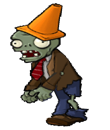
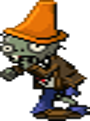
Modificaciones con los zombies, correccion con el tiempo de aparicion, nuevos frames para ataque de los cono y varios docstring

diff --git a/funciones.py b/funciones.py
@@ -315,7 +315,7 @@ def plantar(
     """
     La funcion encarnada de plantar las plantas sobre el pasto.
 
-    inputs:
+    Inputs:
     ------
     grilla_entidades: la grilla sobre la que están colocadas las plantas.
     seleccion_planta: el item de la planta seleccionada ("lanzaguisantes", "girasol", "nuez", "petacereza", "papapum" o "hielaguisantes")
@@ -324,7 +324,7 @@ def plantar(
     reproductor_de_sonido: variable de clase Administrador_de_sonido donde se reproducirán los sonidos de plantar.
     gruposemoillas: el grupo de pygame.Sprites destinado a esta clase.
 
-    returns:
+    Returns:
     ------
     seleccion_planta: devuelve un False en la planta seleccionada para deseleccionar la planta.
 
@@ -412,10 +412,20 @@ def perder(traslucido, grupo_zombies, screen, vivo, reproductor_de_sonido, conta
     traslucidez = traslucido
     return traslucidez, vivo, contador
 
-
 def creacion_zombies(
-    nivel_dificultad, zombies_a_spawnear, grupo_zombies, administrador_de_sonido
-):
+    nivel_dificultad: int, zombies_a_spawnear: list[tuple], administrador_de_sonido) -> int:
+    """Genera zombies para spawnear en funcion del nivel de dificultad y el tiempo de aparicion
+    
+    Inputs: 
+    ------
+    Nivel_dificultad (int): nivel de dificultad del juego
+    zombies_a_spawnear (list): lista que acumula los zombies ya creados en espera para spawnear
+    administrador_de_sonido: administrador que maneja la reproduccion de efectos de sonido
+    
+    Return: 
+    ------
+    nivel_dificultad (int): el nivel de dificultad incrementado en 1 luego de crear los nuevos zombies
+    """
 
     if constantes.SONIDO_INICIO:
         administrador_de_sonido.reproducir_sonido("zombies_coming")
@@ -426,8 +436,6 @@ def creacion_zombies(
         constantes.CANT_APARICION += 1
 
     if nivel_dificultad == constantes.NV_SPAWN_CONO:
-        # nuevo_zombie = cl.Enemigos(constantes.ANCHO_VENTANA, constantes.COLUMNAS_ZOMBIE[random.randint(0, 4)], "cono", constantes.VIDA_ZOMBIES["cono"], administrador_de_sonido)
-        # nuevo_zombie.add(grupo_zombies)
         zombies_a_spawnear.append(
             (random.randint(0, 4), "cono", constantes.VIDA_ZOMBIES["cono"])
         )
@@ -445,10 +453,6 @@ def creacion_zombies(
         lista_ubis = [0, 1, 2, 3, 4]
         ubi1 = lista_ubis.pop(random.choice(lista_ubis))
         ubi2 = lista_ubis.pop(random.choice(lista_ubis))
-        # nuevo_zombie1 = cl.Enemigos(constantes.ANCHO_VENTANA, constantes.COLUMNAS_ZOMBIE[ubi1], "cono", constantes.VIDA_ZOMBIES["cono"], administrador_de_sonido)
-        # nuevo_zombie1.add(grupo_zombies)
-        # nuevo_zombie2 = cl.Enemigos(constantes.ANCHO_VENTANA, constantes.COLUMNAS_ZOMBIE[ubi2], "balde", constantes.VIDA_ZOMBIES["balde"], administrador_de_sonido)
-        # nuevo_zombie2.add(grupo_zombies)
         zombies_a_spawnear.append((ubi1, "cono", constantes.VIDA_ZOMBIES["cono"]))
         zombies_a_spawnear.append((ubi2, "balde", constantes.VIDA_ZOMBIES["balde"]))
 
@@ -461,13 +465,24 @@ def creacion_zombies(
         vida = constantes.VIDA_ZOMBIES[tipo_zb]
         zombies_a_spawnear.append((pos_random, tipo_zb, vida))
 
-    if constantes.TIEMPO_APARICION >= 6000:
+    if constantes.TIEMPO_APARICION == constantes.ESPERA_INICIAL:
+        constantes.TIEMPO_APARICION = constantes.TIEMPO_GENERACION_ZOMBIE
+    elif constantes.TIEMPO_APARICION >= 6000:
         constantes.TIEMPO_APARICION -= 400
     nivel_dificultad += 1
     return nivel_dificultad
 
 
-def creacion_oleada(nivel_dificultad, zombies_a_spawnear):
+def creacion_oleada(nivel_dificultad: int, zombies_a_spawnear: list[tuple]) -> None:
+    """Genera una oleada extra de zombies cuando el nivel es multiplo de NV_OLEADA. Ademas, incrementa
+    el numero de zombies que se generaran en la proxima oleada
+    
+    Inputs:
+    ------
+    nivel_dificultad (int): nivel actual del juego.
+    zombies_a_spawnear (list): lista que acumula los zombies creados pero no colocados.
+
+    """
     if nivel_dificultad % constantes.NV_OLEADA == 0:
         for n in range(constantes.OLEADA_CANT_ZB):
             pos_random = random.randint(0, 4)
@@ -477,21 +492,32 @@ def creacion_oleada(nivel_dificultad, zombies_a_spawnear):
         constantes.OLEADA_CANT_ZB += 3
 
 
-def spawnear_zombies_pendientes(
-    zombies_a_spawnear, delay_spawn_zombie, grupo_zombies, administrador_de_sonido
-):
+def spawnear_zombies_pendientes(zombies_a_spawnear:list[tuple], delay_spawn_zombie: int, grupo_zombies: "pygame.sprite.Group", administrador_de_sonido) -> int:
+    """Spawnea el siguiente zombie en cola cuando ha pasado suficiente tiempo desde el último spawn.
+
+    Verifica si hay zombies pendientes y si ya transcurrió el tiempo de espera entre spawns (COOLDOWN_ZOMBIES), extrae un zombie de la 
+    lista, crea su instancia y lo agrega al grupo de zombies que se dibujan y actualizan en pantalla.
+
+    Inputs:
+    ------
+    zombies_a_spawnear (list): lista que acumula los zombies pendientes por spawnear.
+    delay_spawn_zombie (int): último tiempo en milisegundos en que se spawneó un zombie.
+    grupo_zombies (pygame.sprite.Group): grupo al que se añaden los nuevos zombies.
+    administrador_de_sonido: administrador que maneja los efectos de sonido.
+
+    Returns:
+        int: tiempo actual en milisegundos que servirá como nuevo delay para el próximo spawn.
+    """
+    
     tiempo_actual = pygame.time.get_ticks()
-    if zombies_a_spawnear and (
-        tiempo_actual - delay_spawn_zombie > constantes.COOLDOWN_ZOMBIES
-    ):
+    if zombies_a_spawnear and (tiempo_actual - delay_spawn_zombie > constantes.COOLDOWN_ZOMBIES):
         fila, tipo, vida = zombies_a_spawnear.pop(0)
         nuevo_zombie = cl.Enemigos(
             constantes.ANCHO_VENTANA,
             constantes.COLUMNAS_ZOMBIE[fila],
             tipo,
             vida,
-            administrador_de_sonido,
-        )
+            administrador_de_sonido,)
         nuevo_zombie.add(grupo_zombies)
         delay_spawn_zombie = tiempo_actual
     return delay_spawn_zombie

diff --git a/constantes.py b/constantes.py
@@ -1,10 +1,13 @@
 import os
+import copy
 
 ANCHO_VENTANA = 1040
 ALTO_VENTANA = 650
 VELOCIDAD_PROYECTIL = 10
 BLANCO_TRANSLUCIDO = (255, 255, 255, 255)
-TIEMPO_APARICION = 15000  # Milisegundos
+ESPERA_INICIAL = 27000
+TIEMPO_APARICION = copy.deepcopy(ESPERA_INICIAL)
+TIEMPO_GENERACION_ZOMBIE = 17000
 CANT_APARICION = 1
 OLEADA_CANT_ZB= 3
 # Para la grilla
@@ -29,6 +32,7 @@ VELOCIDAD_ATAQUE_ZOMBIE= 1000
 VIDA_ZOMBIES= {"normal": 181, "cono": 551, "balde": 1281}
 
 VEL_ANIM_ZOMBIE= 30
+VEL_ANIM_ATQ_CONO = 120
 VEL_ANIM_LG= {False: 17, True: 32}
 VALOR_SOL = 25
 
@@ -51,9 +55,9 @@ CANT_FRAMES_PLANTAS= {"girasol": len(os.listdir(r"assets\girasol")),
                      "hielaguisantes": len(os.listdir(r"assets\hielaguisante"))}
 
 NV_AUMENTO_SPAWN = 8
-NV_SPAWN_CONO = 10
-NV_SPAWN_BALDE = 20
-NV_OLEADA = 10
+NV_SPAWN_CONO = 1
+NV_SPAWN_BALDE = 15
+NV_OLEADA = 9
 
 COOLDOWN_PLANTAS = {"lanzaguisantes": 7500, "nuez": 30000, "girasol": 7500, "petacereza": 25000, "papapum": 10000, "hielaguisantes": 7500}
 COOLDOWN_ZOMBIES = 2000

diff --git a/main.py b/main.py
@@ -229,9 +229,11 @@ while run:
                 nuevo_sol = Sol(random.randint(350, constantes.ANCHO_VENTANA - 100),-50, random.choice(constantes.ALTURAS), administrador_de_sonido)
                 nuevo_sol.add(grupo_sol)
             
-            # Cada cierto tiempo spawnean zombies
+            # Cada cierto tiempo se generan zombies
             elif event.type == APARICION_ZOMBIE:#
-                nivel_dificultad = creacion_zombies(nivel_dificultad, zombies_a_spawnear, grupo_zombies, administrador_de_sonido)
+                nivel_dificultad = creacion_zombies(nivel_dificultad, zombies_a_spawnear, administrador_de_sonido)
+                # Modifico el tiempo de retraso del evento
+                pygame.time.set_timer(APARICION_ZOMBIE, constantes.TIEMPO_APARICION)
 
             elif event.type == APARICION_OLEADA:
                 creacion_oleada(nivel_dificultad, zombies_a_spawnear)

diff --git a/clases.py b/clases.py
@@ -166,6 +166,8 @@ class Enemigos(Criaturas):
                 self.estado = "atacar"
                 if not self.realentizado:
                     self.frames = self.frames_ataque
+                    if self.tipo == "cono":
+                        self.velocidad_animacion = constantes.VEL_ANIM_ATQ_CONO
                 else:
                     self.frames = self.frames_ataquehielo
                 self.indice_frame = 0
@@ -174,6 +176,7 @@ class Enemigos(Criaturas):
                 self.estado = "caminar"
                 if not self.realentizado:
                     self.frames = self.frames_caminata
+                    self.velocidad_animacion = constantes.VEL_ANIM_ZOMBIE
                 else:
                     self.frames = self.frames_caminatahielo
                 self.indice_frame = 0
